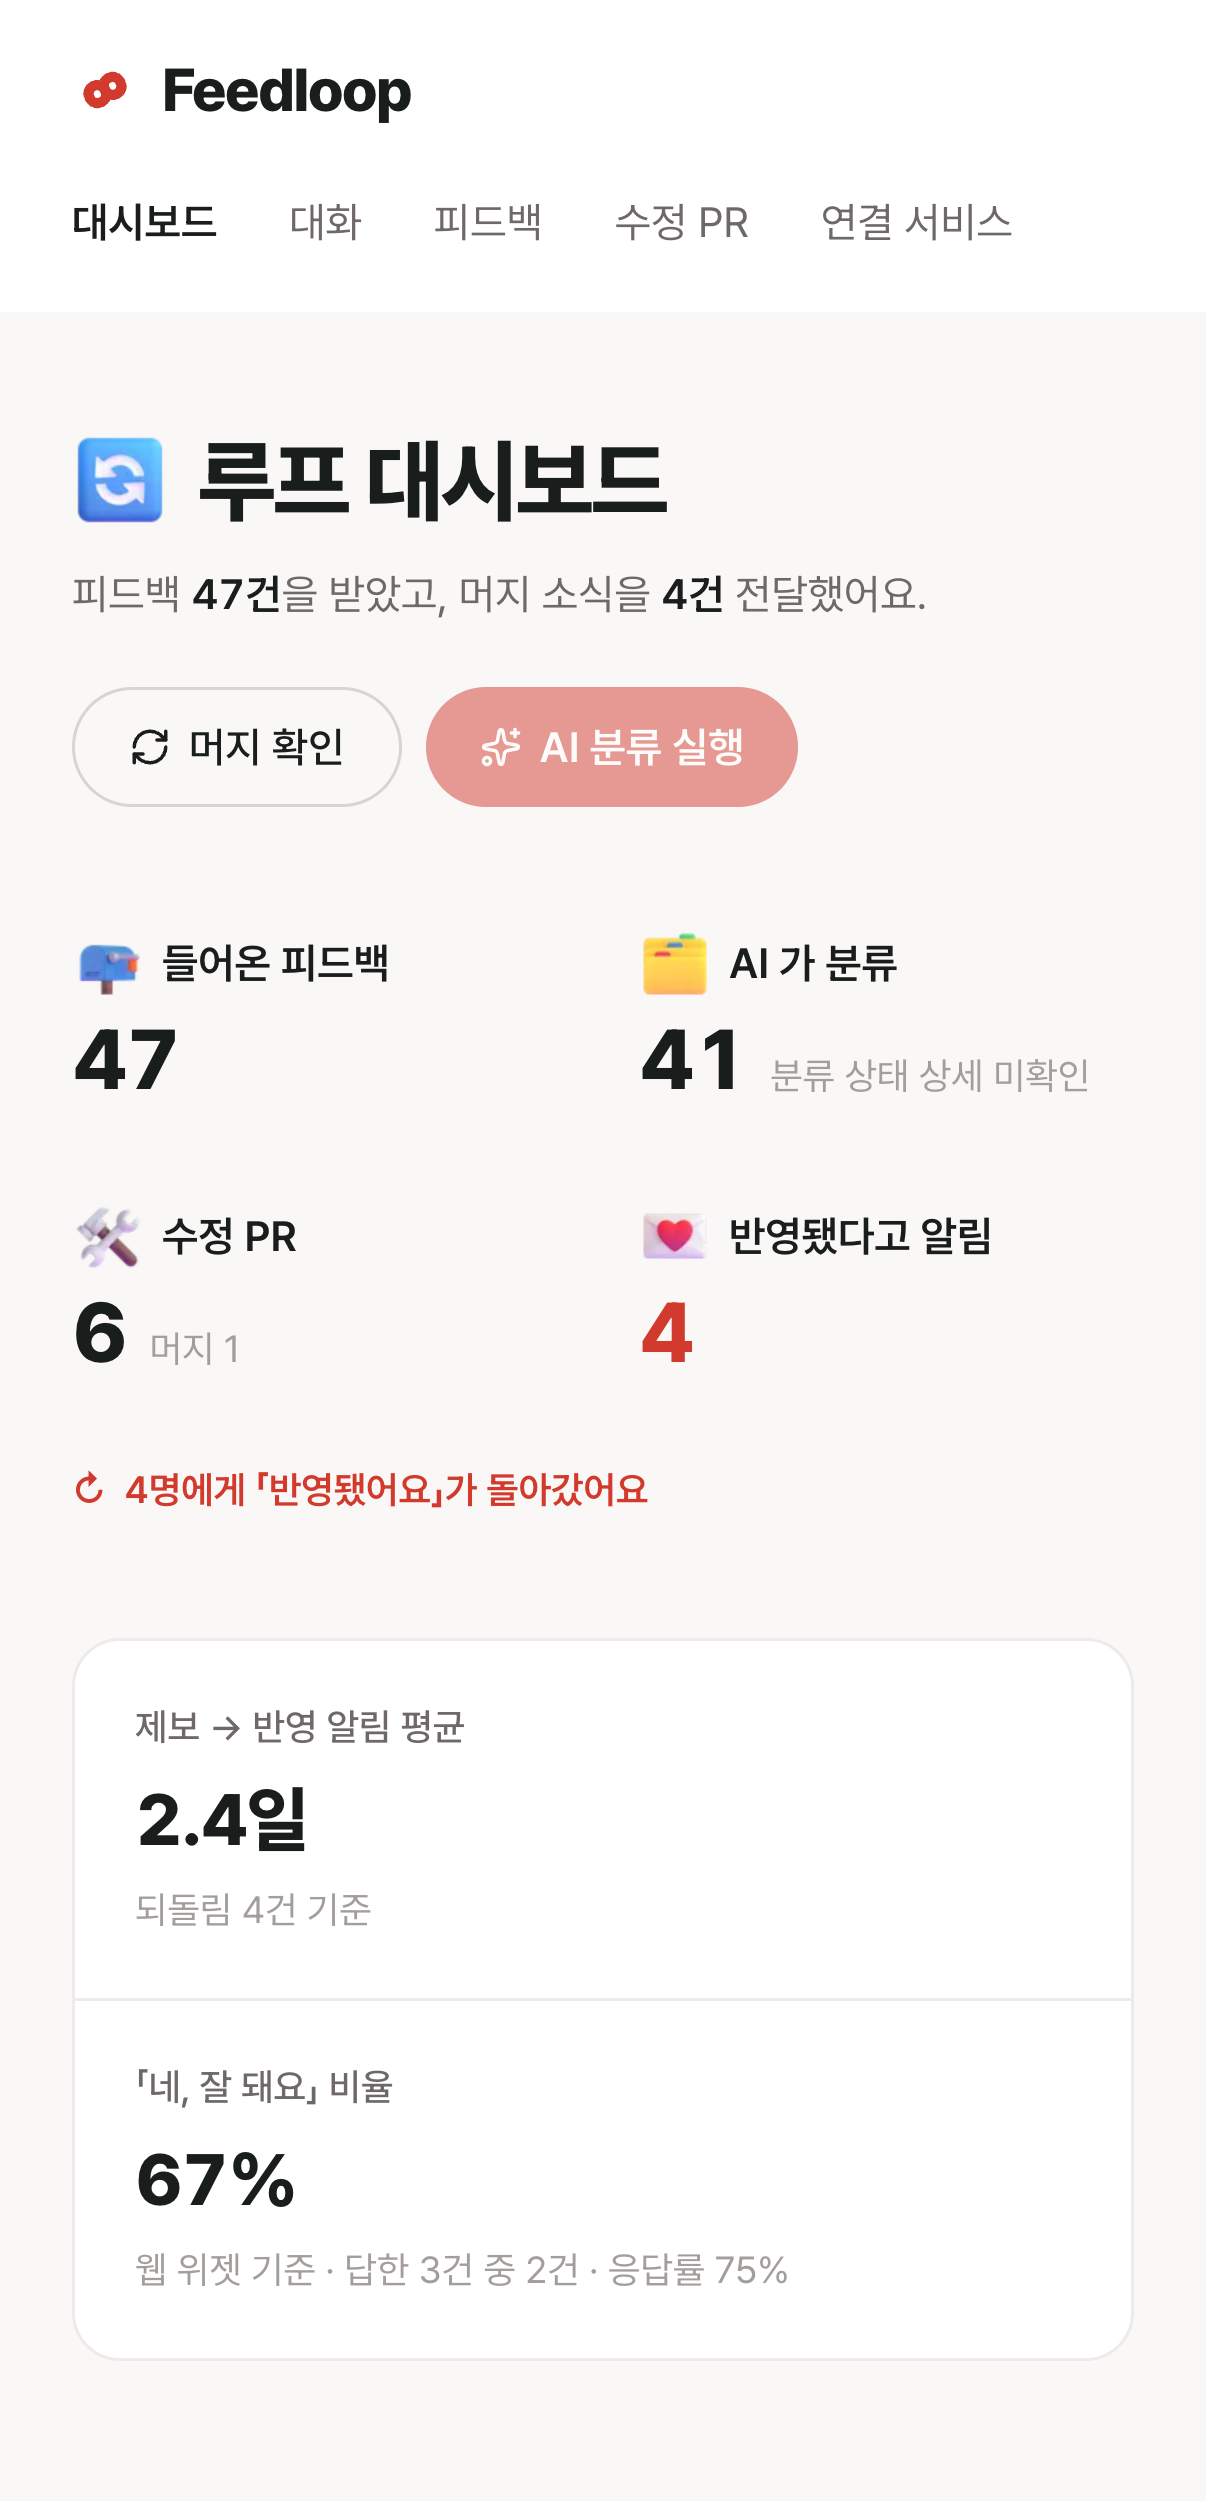
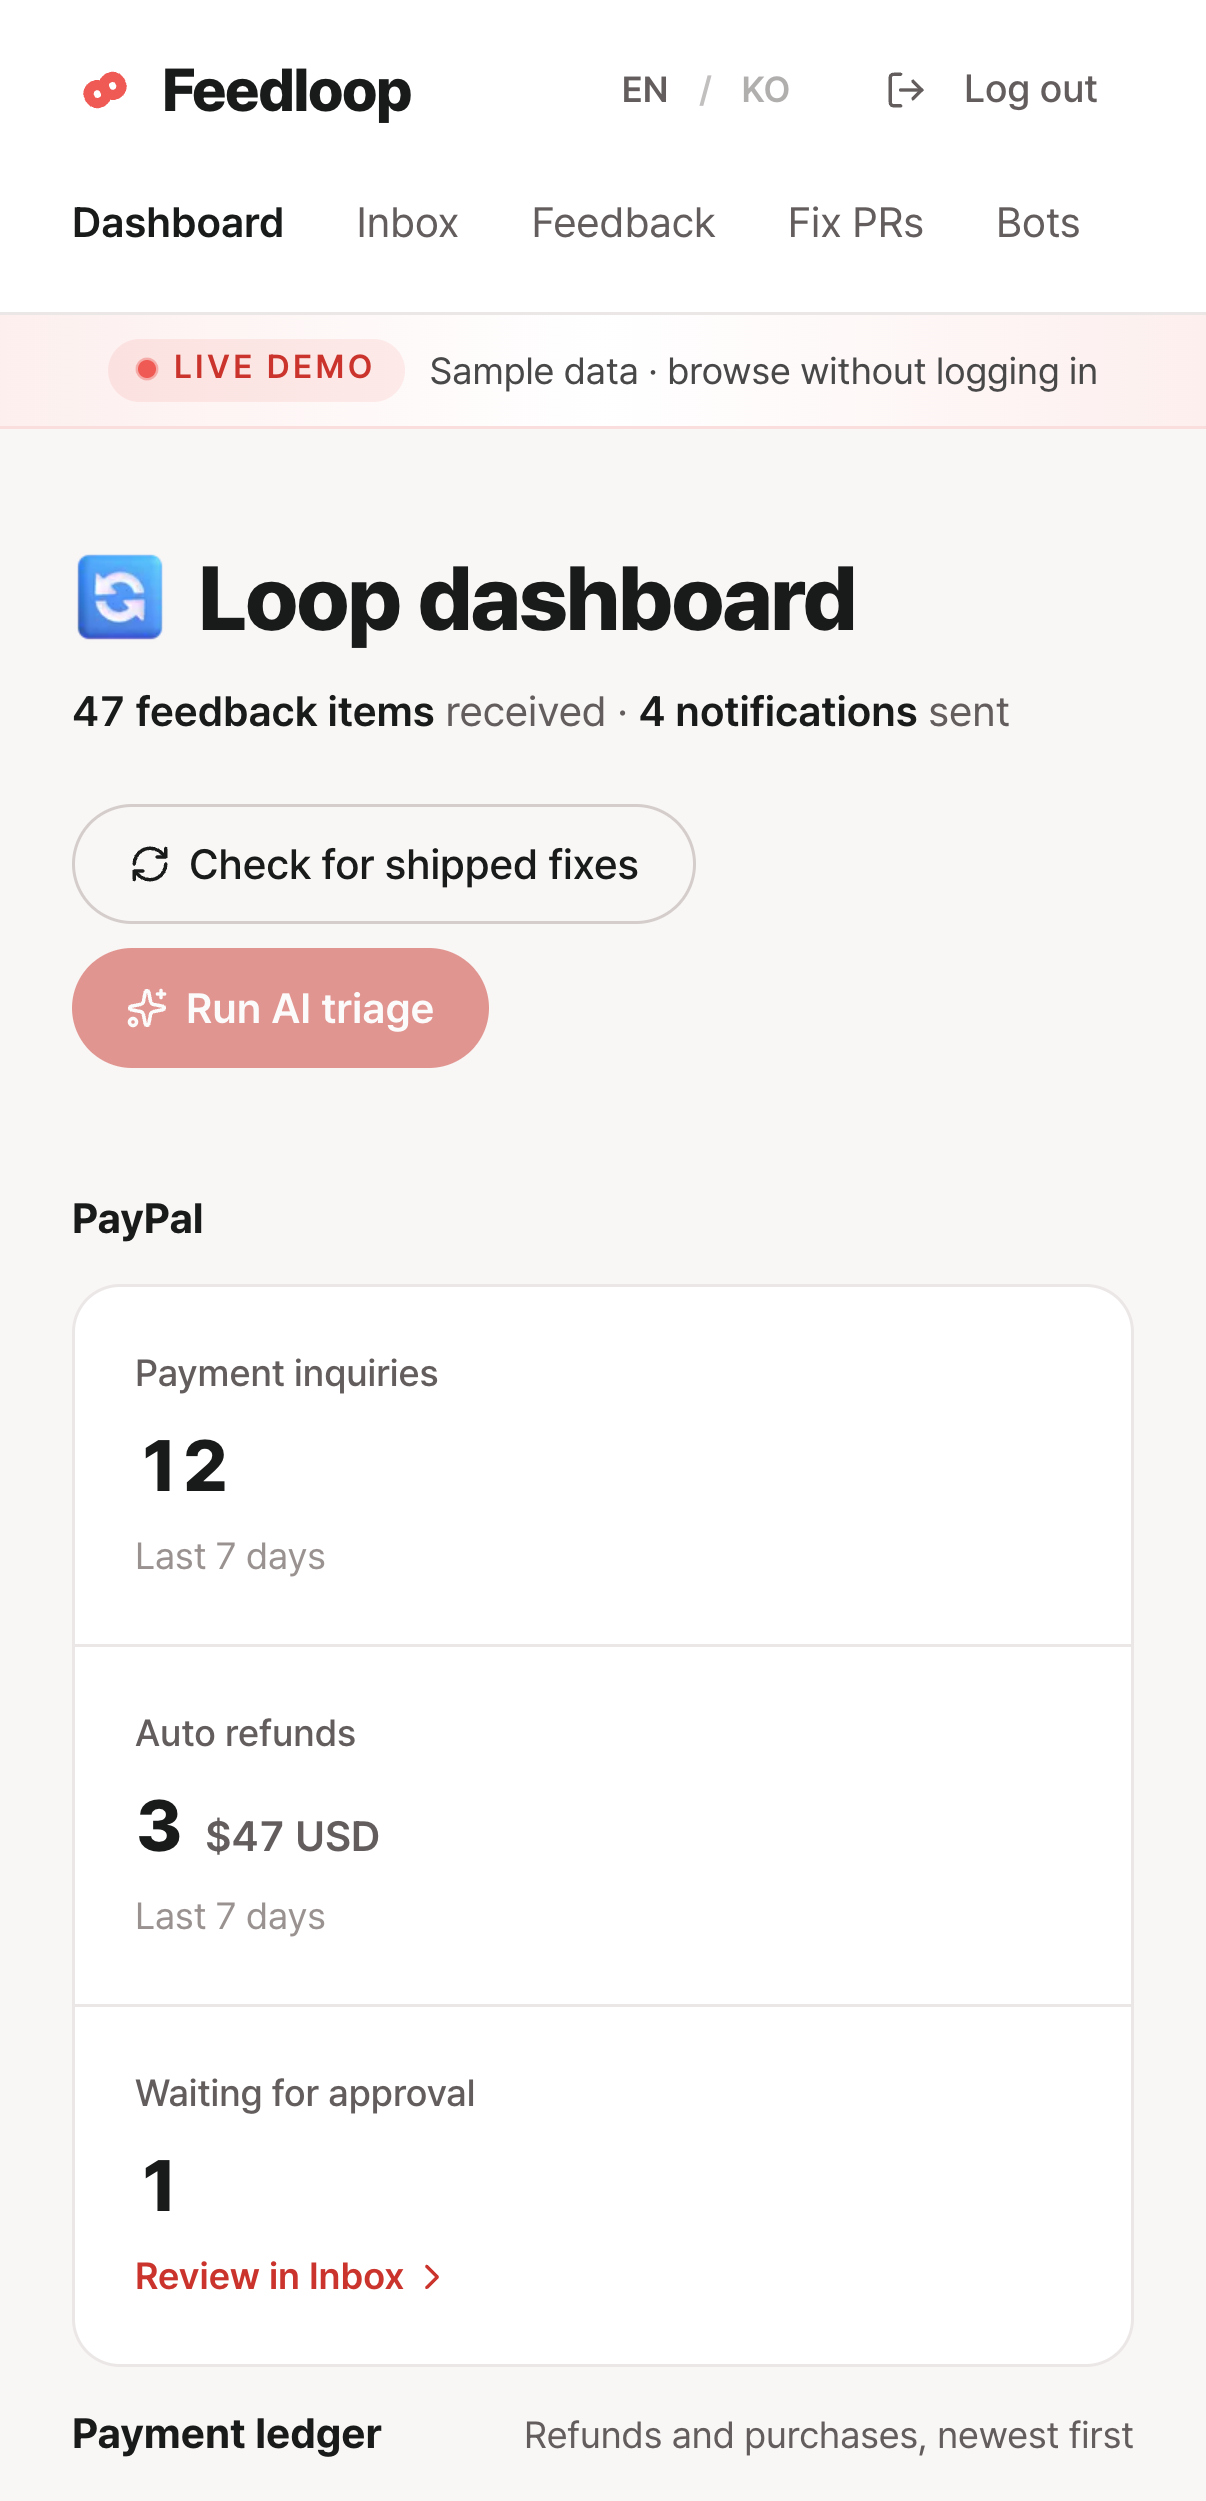
Landing points to the PayPal demo; English hero shot, honest FAQ, UTC emails, PayPal brand name
- Landing nav and hero link to /pricing (the PayPal demo store)
- hero-dashboard.png retaken from /en sample mode (was Korean)
- FAQ: plans on /pricing are a sandbox demo; describe what the pick
  screenshot actually captures and when it is deleted
- English emails show UTC instead of KST
- PayPal orders send brand_name 'Feedloop' in experience_context

Claude-Session: https://claude.ai/code/session_019bfDzqNKATcgE8cmL9vmvS

diff --git a/__tests__/email-templates.test.ts b/__tests__/email-templates.test.ts
@@ -1,6 +1,6 @@
 import { describe, it, expect } from 'vitest';
 import { htmlEscape, safeHttpsUrl, sanitizeSubjectText, textToHtml } from '@/lib/email/html';
-import { formatKst, renderLoopClosedEmail, renderOperatorReplyEmail } from '@/lib/email/templates';
+import { formatKst, formatUtcEnglish, renderLoopClosedEmail, renderOperatorReplyEmail } from '@/lib/email/templates';
 import { formatFrom } from '@/lib/email/postmark';
 
 describe('html 정제', () => {
@@ -136,6 +136,13 @@ describe('formatKst', () => {
   });
 });
 
+describe('formatUtcEnglish', () => {
+  it('영어 메일은 UTC 로 「Mon D, YYYY, HH:mm UTC」 — KST 로 옮기지 않는다', () => {
+    expect(formatUtcEnglish(new Date('2026-09-12T12:21:00Z'))).toBe('Sep 12, 2026, 12:21 UTC');
+    expect(formatUtcEnglish(new Date('2026-01-05T15:05:00Z'))).toBe('Jan 5, 2026, 15:05 UTC');
+  });
+});
+
 describe('메일 껍데기 폭 — 휴대폰에서 줄어든다', () => {
   // 🔴 2026-09-18 ny 「모바일에서 개선 이메일 쪽 깨져보여서 반응형으로 가능할까?」
   //    원인은 `width="600"` 속성이었다. 그 속성은 «고정 폭»이라 390px 화면에서도 600 을 차지해서
@@ -183,7 +190,8 @@ describe('메일 언어 — locale 로 사전을 고른다(기본 en)', () => {
     expect(en.html).toContain('Continue the chat on Nulnul Tours →');
     expect(en.text).toContain('[Reply from Nulnul Tours team]');
     expect(en.text).toContain('This reply arrived on ');
-    expect(en.text).toMatch(/on [A-Z][a-z]{2} \d{1,2}, 2026, .* KST\./);
+    expect(en.text).toMatch(/on [A-Z][a-z]{2} \d{1,2}, 2026, \d{2}:\d{2} UTC\./);
+    expect(en.text).not.toContain('KST');
     expect(/[가-힣]/.test(en.subject + en.html + en.text)).toBe(false);
 
     const ko = renderOperatorReplyEmail({ ...reply, locale: 'ko' });

diff --git a/src/components/landing/HeroSection.tsx b/src/components/landing/HeroSection.tsx
@@ -3,6 +3,7 @@ import { useTranslations } from 'next-intl';
 import { HeroPhone } from './HeroPhone';
 import { PrimaryCta } from './PrimaryCta';
 import { DemoAnchor } from './LiveDemo';
+import { Link } from '@/i18n/navigation';
 
 /**
  * 히어로 — 제출용 대표 이미지(`docs/15-제출/cover/hero.html`)의 디자인을 그대로 가져왔다.
@@ -105,6 +106,19 @@ export function HeroSection() {
           <p className="mt-4 text-[14px] text-white/72 lg:text-[15px]" style={fadeUp(0.6)}>
             {t('hero.setupNote')}
           </p>
+          {/* PayPal 쪽 기능이 랜딩에서 안 보이던 것을 한 줄로 드러낸다. 주 CTA 보다 작게 — 보조 진입점이다 */}
+          <Link
+            href="/pricing"
+            className="mt-5 inline-flex max-w-full items-start gap-2 rounded-2xl bg-white/12 px-3.5 py-2 text-[13px] font-semibold leading-snug text-white ring-1 ring-white/30 transition-colors hover:bg-white/20 lg:text-[14px]"
+            style={fadeUp(0.6)}
+          >
+            <span className="shrink-0 rounded-full bg-white px-2 py-px text-[11px] font-bold uppercase tracking-wide text-[#b92e25] lg:text-[12px]">
+              {t('hero.paypalTag')}
+            </span>
+            <span>
+              {t('hero.paypalLine')} <span aria-hidden="true">→</span>
+            </span>
+          </Link>
         </div>
 
         <div className="flex flex-col items-center lg:items-end" style={fadeUp(0.6)}>

diff --git a/src/components/landing/LandingNav.tsx b/src/components/landing/LandingNav.tsx
@@ -8,6 +8,7 @@ import { LoginLink, PrimaryCta } from './PrimaryCta';
 import { DemoAnchor, scrollToHash } from './LiveDemo';
 import { LogoMark } from './Logo';
 import { LocaleSwitcher } from '@/components/LocaleSwitcher';
+import { Link as LocaleLink } from '@/i18n/navigation';
 
 const links = [{ labelKey: 'how', href: '#how' }] as const;
 
@@ -116,6 +117,8 @@ export function LandingNav() {
               </a>
             ))}
             <DemoAnchor className="text-[15px] font-medium" />
+            {/* PayPal 데모 상점 — 심사위원이 랜딩에서 바로 찾게 한다 */}
+            <LocaleLink href="/pricing">{t('nav.paypalDemo')}</LocaleLink>
           </div>
           <div className="flex items-center gap-5">
             <LocaleSwitcher className={fg} />
@@ -182,6 +185,13 @@ export function LandingNav() {
           >
             {t('nav.demo')}
           </a>
+          <LocaleLink
+            href="/pricing"
+            onClick={handleClose}
+            className="block rounded-[10px] px-4 py-3 text-[15px] font-medium text-[var(--ink)]"
+          >
+            {t('nav.paypalDemo')}
+          </LocaleLink>
           <LoginLink
             className="block rounded-[10px] px-4 py-3 text-[15px] font-medium text-[var(--ink)]"
             onNavigate={handleClose}

diff --git a/__tests__/paypal-client.test.ts b/__tests__/paypal-client.test.ts
@@ -76,6 +76,17 @@ describe('PayPalClient', () => {
     expect(ids.filter(Boolean)).toEqual(['req-order', 'req-capture', 'req-refund']);
   });
 
+  it('puts brand_name in payment_source.paypal.experience_context only (no application_context)', async () => {
+    const { client, calls } = makeClient(() => json({ id: 'O1', status: 'PAYER_ACTION_REQUIRED' }));
+    const base = { amountValue: '1.00', currencyCode: 'USD', returnUrl: 'https://a/r', cancelUrl: 'https://a/c', requestId: 'r' };
+    await client.createOrder({ ...base, brandName: 'Feedloop' });
+    await client.createOrder(base);
+    const [withBrand, without] = calls.slice(1).map((c) => JSON.parse(String(c.init.body)));
+    expect(withBrand.payment_source.paypal.experience_context.brand_name).toBe('Feedloop');
+    expect(withBrand.application_context).toBeUndefined();
+    expect(without.payment_source.paypal.experience_context).not.toHaveProperty('brand_name');
+  });
+
   it('always includes an explicit amount in the refund body', async () => {
     const { client, calls } = makeClient(() => json({ id: 'R1', status: 'COMPLETED' }));
     await client.refundCapture('C1', { amountValue: '2.50', currencyCode: 'USD', requestId: 'r' });

diff --git a/src/lib/email/templates.ts b/src/lib/email/templates.ts
@@ -79,13 +79,19 @@ export function formatKst(d: Date): string {
   return `${p.year}년 ${Number(p.month)}월 ${Number(p.day)}일 ${p.hour}:${p.minute}`;
 }
 
-/** "Oct 21, 2026, 22:00 KST" — 영어 메일은 시간대(KST)는 유지하되 표기만 영어로. */
-function formatKstEnglish(d: Date): string {
-  return `${new Intl.DateTimeFormat('en-US', { timeZone: 'Asia/Seoul', dateStyle: 'medium', timeStyle: 'short', hourCycle: 'h23' }).format(d)} KST`;
+/** "Oct 21, 2026, 13:00 UTC" — 영어 메일 독자는 한국에 있지 않을 수 있어 UTC 로 쓴다. 한국어 메일만 KST. */
+const UTC_ENGLISH = new Intl.DateTimeFormat('en-US', {
+  timeZone: 'UTC',
+  dateStyle: 'medium',
+  timeStyle: 'short',
+  hourCycle: 'h23',
+});
+export function formatUtcEnglish(d: Date): string {
+  return `${UTC_ENGLISH.format(d)} UTC`;
 }
 
 function formatMailTime(d: Date, locale: Locale | undefined): string {
-  return locale === 'ko' ? formatKst(d) : formatKstEnglish(d);
+  return locale === 'ko' ? formatKst(d) : formatUtcEnglish(d);
 }
 
 function linkHtml(href: string, label: string): string {

diff --git a/src/lib/paypal/client.ts b/src/lib/paypal/client.ts
@@ -101,6 +101,8 @@ export interface CreateOrderInput {
   requestId: string;
   /** PayPal page language, e.g. en-US. Without it PayPal guesses from the buyer's IP. */
   locale?: string;
+  /** Merchant name shown on the PayPal approval page (experience_context.brand_name, 1–127 chars). */
+  brandName?: string;
   /** NO_SHIPPING for digital goods — the buyer is not asked for an address. */
   shippingPreference?: 'NO_SHIPPING' | 'GET_FROM_FILE' | 'SET_PROVIDED_ADDRESS';
   /** Caller's cancellation (the agent's tool signal). Absent for the pricing page. */
@@ -233,6 +235,7 @@ export class PayPalClient {
               return_url: input.returnUrl,
               cancel_url: input.cancelUrl,
               user_action: 'PAY_NOW',
+              ...(input.brandName ? { brand_name: input.brandName } : {}),
               ...(input.locale ? { locale: input.locale } : {}),
               ...(input.shippingPreference ? { shipping_preference: input.shippingPreference } : {}),
             },

diff --git a/__tests__/paypal-checkout.test.ts b/__tests__/paypal-checkout.test.ts
@@ -86,7 +86,11 @@ describe('createCheckout', () => {
     expect(body.purchase_units[0].amount).toEqual({ value: '58.00', currency_code: 'USD' });
     expect(body.payment_source.paypal.experience_context.return_url).toBe(`${ORIGIN}/api/paypal/return/${BOT}`);
     expect(body.payment_source.paypal.experience_context.cancel_url).toBe(`${ORIGIN}/api/paypal/cancel/${BOT}`);
-    expect(body.payment_source.paypal.experience_context).toMatchObject({ locale: 'en-US', shipping_preference: 'NO_SHIPPING' });
+    expect(body.payment_source.paypal.experience_context).toMatchObject({
+      brand_name: 'Feedloop',
+      locale: 'en-US',
+      shipping_preference: 'NO_SHIPPING',
+    });
 
     expect(store.orders).toHaveLength(1);
     expect(store.orders[0]).toMatchObject({

diff --git a/src/lib/paypal/checkout.ts b/src/lib/paypal/checkout.ts
@@ -111,6 +111,8 @@ export async function createCheckout(deps: CheckoutDeps, input: CheckoutInput): 
       cancelUrl,
       // English for judges (design v2 §10); every product here is digital, so no address step.
       locale: 'en-US',
+      // Without it the approval page shows the sandbox business account's name, not ours.
+      brandName: 'Feedloop',
       shippingPreference: 'NO_SHIPPING',
       requestId: (deps.newRequestId ?? randomUUID)(),
       signal,
